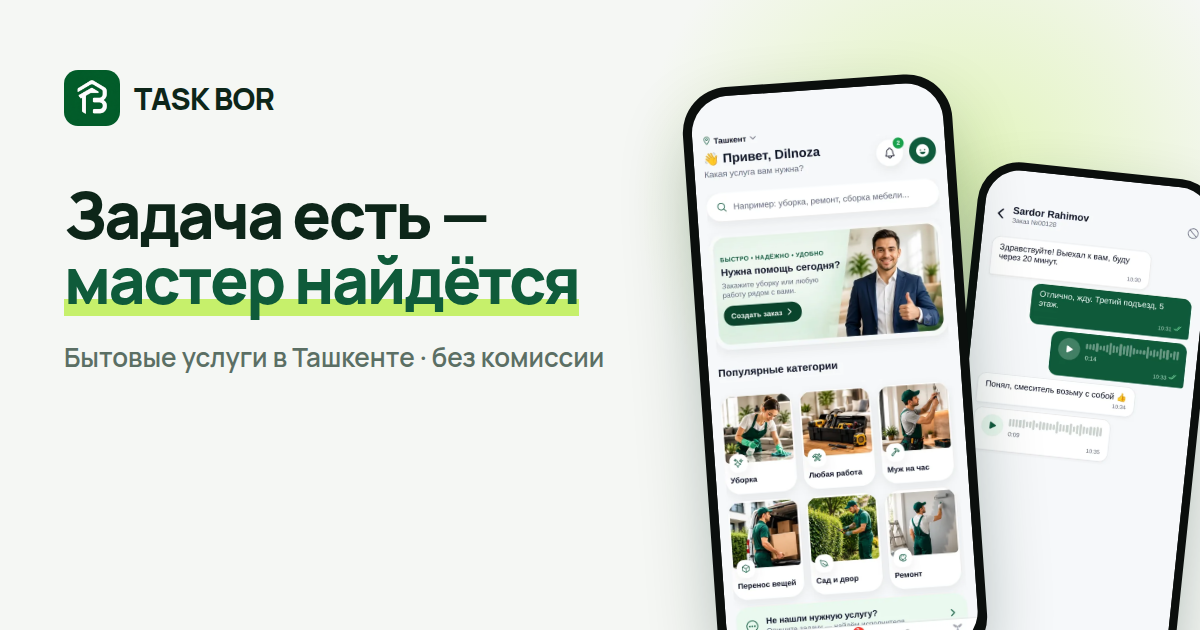
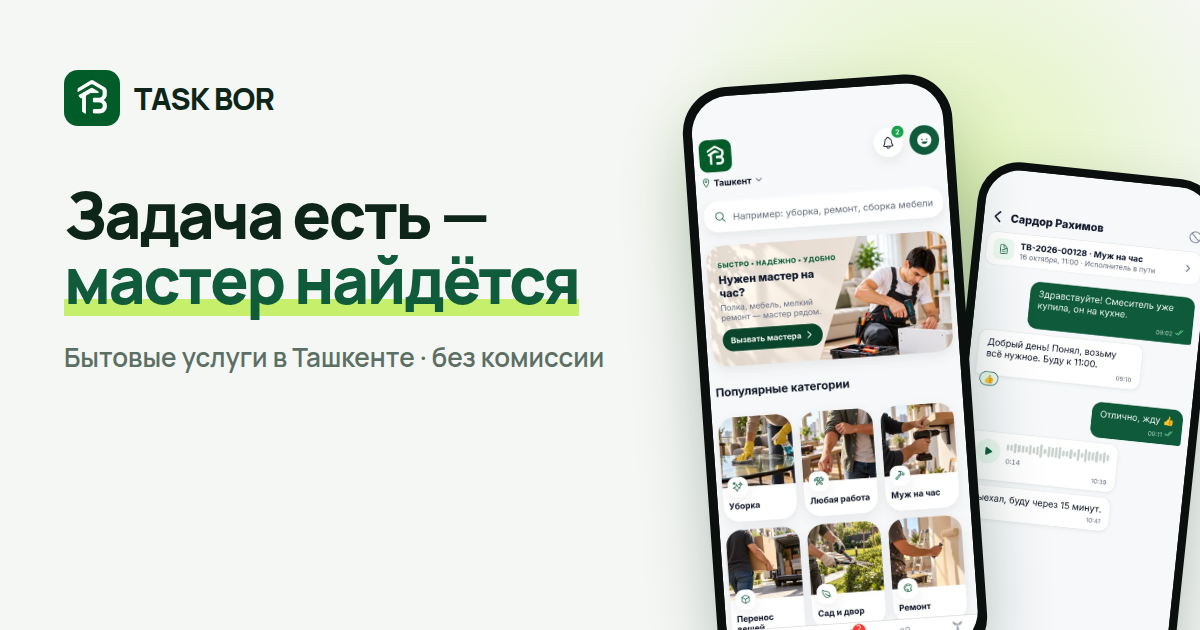
Сайт: новые фото категорий и скриншоты приложения (главная, заказы, приём заказов), обновлён og.png
Claude-Session: https://claude.ai/code/session_0113oxvnBU9nNg39XL5UrQZH

Changed region(s): [[0.555, 0.2111, 1.0, 1.0], [0.74, 0.181, 0.8017, 0.2714], [0.9867, 0.3619, 1.0, 0.3921]]

diff --git a/index.html b/index.html
@@ -495,12 +495,12 @@ footer{padding:48px 0 calc(40px + env(safe-area-inset-bottom))}
       <p class="lead" data-i="catP">Выберите категорию или опишите задачу своими словами — подходящие исполнители увидят её сразу.</p>
     </div>
     <div class="cats">
-      <article class="cat rv"><div class="ph"><img src="img/cat_uborka.webp" alt="" loading="lazy" width="490" height="479"></div><div class="tx"><h3 data-i="c1h">Уборка</h3><p data-i="c1p">Квартиры, дома и офисы — разово или регулярно.</p></div></article>
-      <article class="cat rv"><div class="ph"><img src="img/cat_muj_na_chas.webp" alt="" loading="lazy" width="498" height="479"></div><div class="tx"><h3 data-i="c2h">Муж на час</h3><p data-i="c2p">Полки, люстры, карнизы, розетки и мелкий ремонт.</p></div></article>
-      <article class="cat rv"><div class="ph"><img src="img/cat_remont.webp" alt="" loading="lazy" width="505" height="476"></div><div class="tx"><h3 data-i="c3h">Ремонт</h3><p data-i="c3p">Сантехника, электрика, отделка, бытовая техника.</p></div></article>
-      <article class="cat rv"><div class="ph"><img src="img/cat_perenos_vishey.webp" alt="" loading="lazy" width="494" height="486"></div><div class="tx"><h3 data-i="c4h">Перенос вещей</h3><p data-i="c4p">Переезд, грузчики, подъём мебели на этаж.</p></div></article>
-      <article class="cat rv"><div class="ph"><img src="img/cat_sad_i_dvor.webp" alt="" loading="lazy" width="494" height="468"></div><div class="tx"><h3 data-i="c5h">Сад и двор</h3><p data-i="c5p">Уход за садом, покос, уборка двора и участка.</p></div></article>
-      <article class="cat rv"><div class="ph"><img src="img/cat_lyubaya_rabota.webp" alt="" loading="lazy" width="495" height="465"></div><div class="tx"><h3 data-i="c6h">Любая работа</h3><p data-i="c6p">Не нашли категорию? Опишите задачу — исполнитель найдётся.</p></div></article>
+      <article class="cat rv"><div class="ph"><img src="img/cat_uborka.webp" alt="" loading="lazy" width="540" height="514"></div><div class="tx"><h3 data-i="c1h">Уборка</h3><p data-i="c1p">Квартиры, дома и офисы — разово или регулярно.</p></div></article>
+      <article class="cat rv"><div class="ph"><img src="img/cat_muj_na_chas.webp" alt="" loading="lazy" width="540" height="514"></div><div class="tx"><h3 data-i="c2h">Муж на час</h3><p data-i="c2p">Полки, люстры, карнизы, розетки и мелкий ремонт.</p></div></article>
+      <article class="cat rv"><div class="ph"><img src="img/cat_remont.webp" alt="" loading="lazy" width="540" height="514"></div><div class="tx"><h3 data-i="c3h">Ремонт</h3><p data-i="c3p">Сантехника, электрика, отделка, бытовая техника.</p></div></article>
+      <article class="cat rv"><div class="ph"><img src="img/cat_perenos_vishey.webp" alt="" loading="lazy" width="540" height="514"></div><div class="tx"><h3 data-i="c4h">Перенос вещей</h3><p data-i="c4p">Переезд, грузчики, подъём мебели на этаж.</p></div></article>
+      <article class="cat rv"><div class="ph"><img src="img/cat_sad_i_dvor.webp" alt="" loading="lazy" width="540" height="514"></div><div class="tx"><h3 data-i="c5h">Сад и двор</h3><p data-i="c5p">Уход за садом, покос, уборка двора и участка.</p></div></article>
+      <article class="cat rv"><div class="ph"><img src="img/cat_lyubaya_rabota.webp" alt="" loading="lazy" width="540" height="514"></div><div class="tx"><h3 data-i="c6h">Любая работа</h3><p data-i="c6p">Не нашли категорию? Опишите задачу — исполнитель найдётся.</p></div></article>
     </div>
   </div>
 </section>
